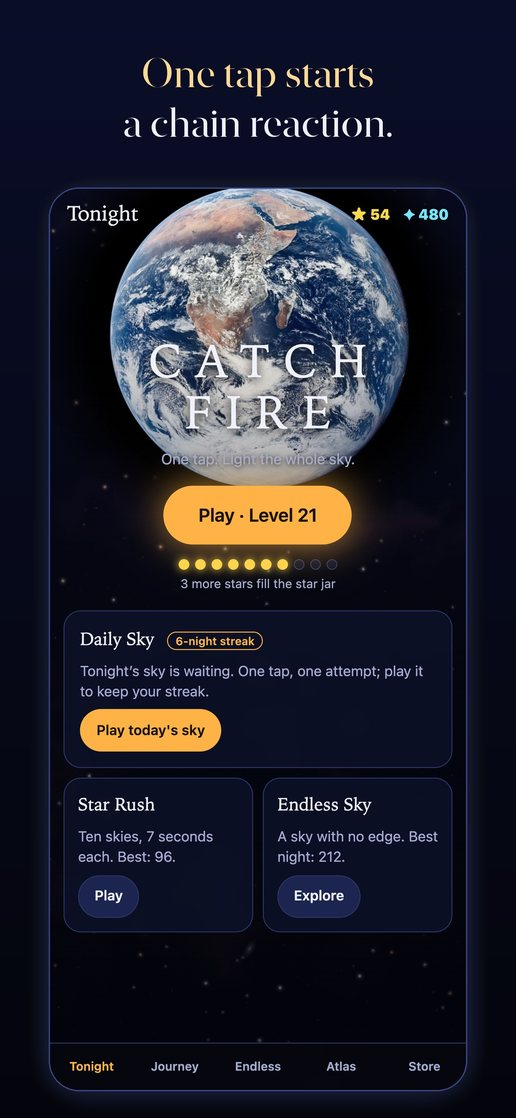
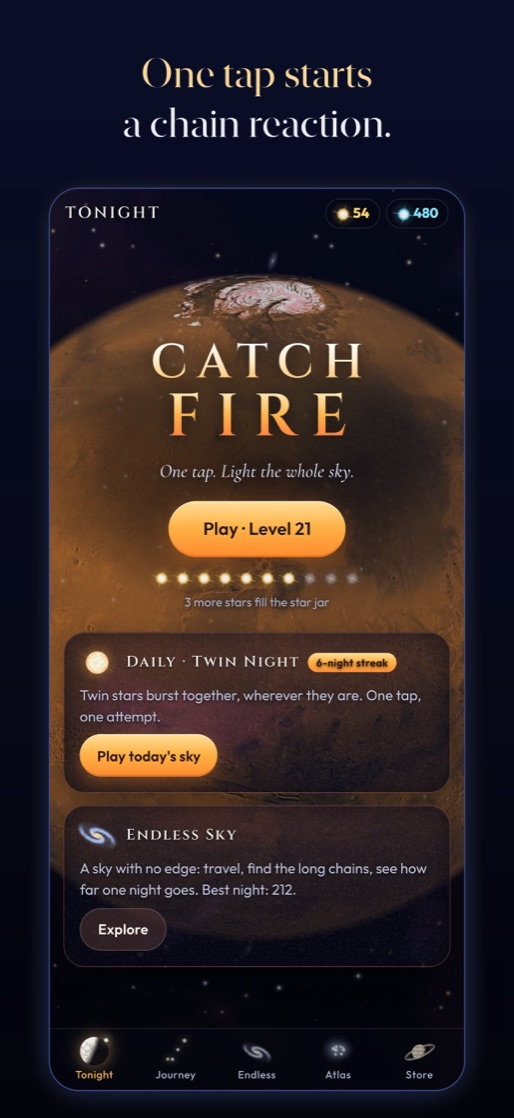
Eleven free worlds, the rotating Daily, and the new look

diff --git a/index.html b/index.html
@@ -31,18 +31,18 @@ small{color:var(--dim)}
 <h1>One tap. Light the whole sky.</h1>
 <p class="lead">Every sky is a puzzle with one question: which star?</p>
 <p>Tap a star and it sends out a wave of light. Every star the wave touches lights up and sends its own. Choose well and one tap sets the whole sky burning. Choose the obvious star and you will usually be wrong.</p>
-<div class="shots"><img src="./assets/shot-1-home.jpg" alt="The Catch Fire home screen, with the Earth behind it" width="516" height="1118"><img src="./assets/shot-2-chain.jpg" alt="A chain of light spreading from star to star" width="516" height="1118"><img src="./assets/shot-4-perfect.jpg" alt="A perfect result uncovering the Carina Nebula" width="516" height="1118"></div>
+<div class="shots"><img src="./assets/shot-1-home.jpg" alt="The Catch Fire home screen, with Mars behind it" width="516" height="1118"><img src="./assets/shot-2-chain.jpg" alt="A chain of light spreading from star to star" width="516" height="1118"><img src="./assets/shot-4-perfect.jpg" alt="A perfect result uncovering the Carina Nebula" width="516" height="1118"></div>
 <h2>What is in it</h2>
 <ul>
 <li><b>One tap, no hurry.</b> No timers, no lives. Touch and hold any star to see where its light would go.</li>
 <li><b>Stars that behave differently.</b> Red dwarfs glow all round, suns throw a crescent, blue giants fire a long beam, pulsars fire two, and a red giant needs two waves to wake.</li>
-<li><b>100 skies in five worlds.</b> Asteroids, dust, black holes and, in the last world, two taps. Every sky's best answer is proven, so three stars always means you found it.</li>
-<li><b>A new Daily Sky</b>, the same for everyone, with one attempt and the answer afterwards.</li>
-<li><b>Star Rush and Endless Sky</b> for a minute or an evening.</li>
+<li><b>232 skies in eleven worlds, all free.</b> Each world brings one new idea: asteroids and dust, black holes, twin stars that burst together, antistars that answer light with darkness, hungry black holes that grow, comets that carry fire, meteors that shatter, and the supernova. Every sky's best answer is proven, so three stars always means you found it.</li>
+<li><b>A Daily that changes with the weekday</b>, the same for everyone: one attempt, the answer afterwards, and a streak that pays.</li>
+<li><b>Endless Sky</b>, a sky with no edge, for a minute or an evening.</li>
 <li><b>Real skies behind the game:</b> ten NASA photographs to collect with stardust you earn by playing.</li>
 </ul>
 <h2>What it costs</h2>
-<p>Worlds 1 and 2, the Daily Sky, Star Rush and Endless Sky are free, with occasional adverts. <b>Catch Fire Complete</b> is one purchase, kept for good: it opens Worlds 3 to 5, gives you every sky theme and removes every advert. There is no subscription.</p>
+<p>Every world, the Daily and Endless Sky are free, with occasional adverts. <b>Catch Fire Complete</b> is one purchase, kept for good: it removes every advert, gives you every sky theme, and makes reveals and telescope looks free. There is no subscription.</p>
 <p><small>Catch Fire is made by Gaborandi. Sky photographs: NASA, ESA, CSA, STScI, JPL-Caltech, USGS, Space Science Institute and the Solar Dynamics Observatory.</small></p>
 </main>
 </body>

diff --git a/terms/index.html b/terms/index.html
@@ -34,7 +34,7 @@ small{color:var(--dim)}
 <h2>Personal use</h2>
 <p>Catch Fire is for your personal, non-commercial enjoyment. Please do not tamper with the game, its purchase or its adverts.</p>
 <h2>Catch Fire Complete</h2>
-<p>Catch Fire Complete is a single, non-consumable purchase processed by Apple. It opens Worlds 3 to 5, every sky theme, and removes adverts. It belongs to the Apple Account that bought it and can be brought back on another device with Restore purchases. Refunds are handled by Apple under its policies; a refunded purchase is withdrawn in the game.</p>
+<p>Catch Fire Complete is a single, non-consumable purchase processed by Apple. It removes adverts, opens every sky theme, and makes reveals and telescope looks free; every world of the game is free without it. It belongs to the Apple Account that bought it and can be brought back on another device with Restore purchases. Refunds are handled by Apple under its policies; a refunded purchase is withdrawn in the game.</p>
 <h2>Adverts</h2>
 <p>The free game shows adverts supplied by Google. Some are offered in exchange for something in the game; whether one is available depends on your region, your connection and your privacy choices.</p>
 <h2>The game as it is</h2>

diff --git a/privacy.html b/privacy.html
@@ -2,4 +2,4 @@
 <meta charset="utf-8">
 <meta http-equiv="refresh" content="0; url=./privacy/">
 <link rel="canonical" href="./privacy/">
-<title>FUSE Privacy</title>
+<title>Catch Fire Privacy</title>
